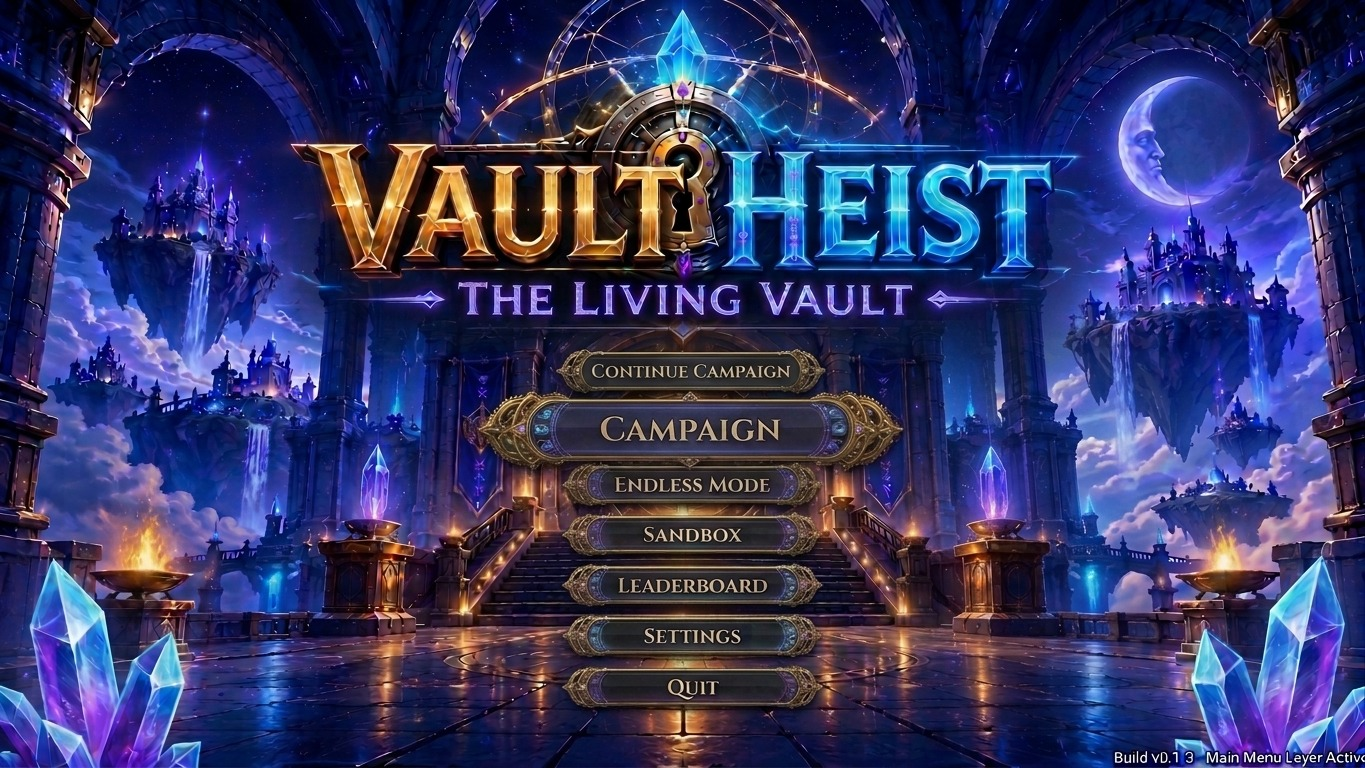
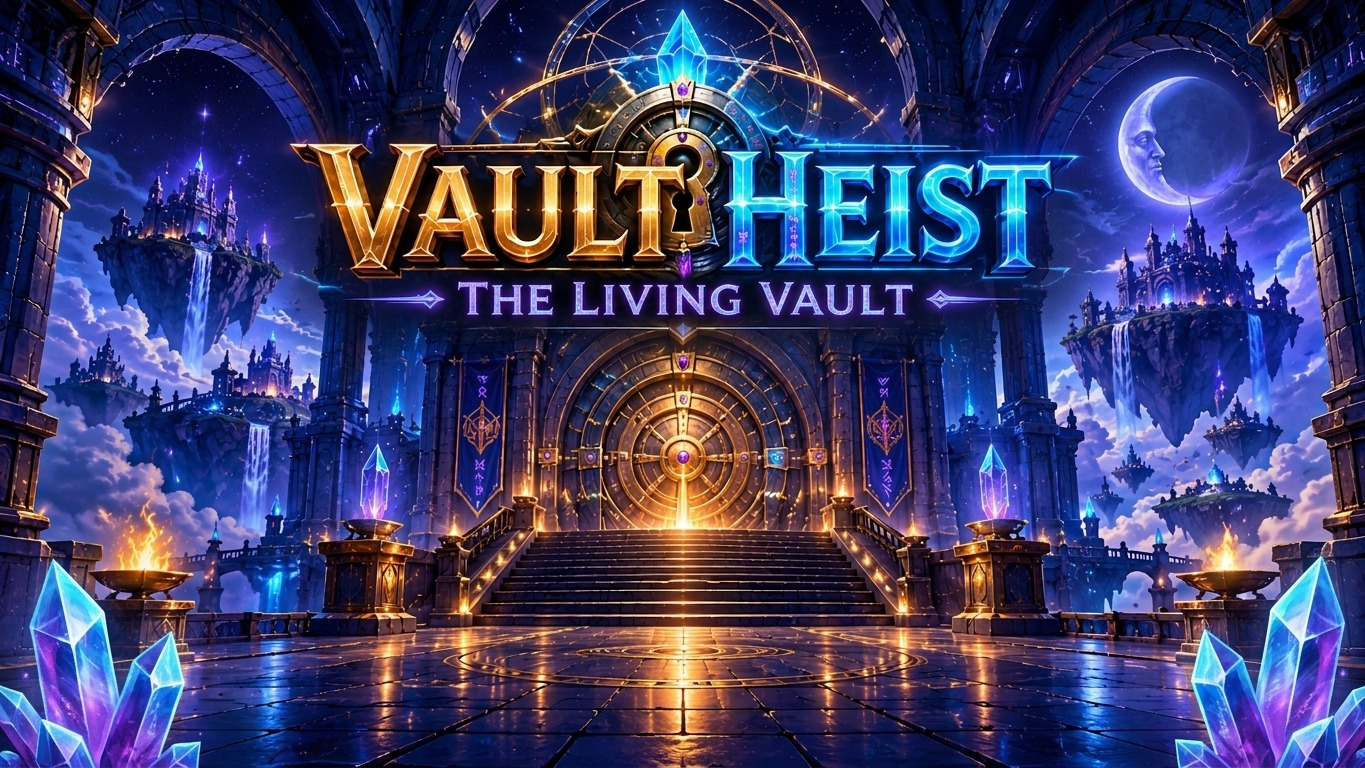
Implemented menu and campaign screens and added act screens

diff --git a/VaultHeist/src/game/Campaign.cpp b/VaultHeist/src/game/Campaign.cpp
@@ -1,0 +1,230 @@
+#include "../../include/game/Campaign.h"
+#include <SFML/Graphics.hpp>
+
+using namespace sf;
+
+void Campaign::CampaignScreen()
+{
+	RenderWindow window(VideoMode({ 1365, 765 }), "Campaign Screen");
+
+	Texture background;
+	if (!background.loadFromFile("VaultHeist/assets/background/campaign_screen.jpeg"))
+		return;
+
+	Sprite b(background);
+
+	Texture lock;
+	if (!lock.loadFromFile("VaultHeist/assets/background/campaign_lock.png"))
+		return;
+
+	Sprite l[3] = { Sprite(lock), Sprite(lock), Sprite(lock) };
+	for (int i = 0; i < 3; i++)
+		l[i].setScale(Vector2f(0.2, 0.2));
+	l[0].setPosition(Vector2f(980, 280));
+	l[1].setPosition(Vector2f(180, 280));
+	l[2].setPosition(Vector2f(620, 440));
+
+	Texture name;
+	if (!name.loadFromFile("VaultHeist/assets/background/act_names.png"))
+		return;
+
+	Sprite acts[4] = { Sprite(name), Sprite(name)  ,Sprite(name) , Sprite(name) };
+	for (int i = 0; i < 4; i++)
+	{
+		acts[i].setTextureRect(IntRect({ 50, 90 + (i * 200) }, { 1100, 80 }));
+		acts[i].setScale(Vector2f(0.4, 0.4));
+	}
+	acts[0].setPosition(Vector2f(380, 50));
+	acts[1].setPosition(Vector2f(880, 220));
+	acts[2].setPosition(Vector2f(30, 250));
+	acts[3].setPosition(Vector2f(520, 650));
+
+	bool open[4] = { true, false, false, false };
+	bool once[4] = { false, false, false, false };
+
+	RectangleShape bound[4];
+	for (int i = 0; i < 4; i++)
+	{
+		bound[i].setSize(Vector2f(400, 200));
+		bound[i].setFillColor(Color::Transparent);
+	}
+	bound[0].setPosition(Vector2f(400, 50));
+	bound[1].setPosition(Vector2f(880, 220));
+	bound[2].setPosition(Vector2f(70, 270));
+	bound[3].setPosition(Vector2f(520, 450));
+
+	while (window.isOpen())
+	{
+		Vector2i mousepos = Mouse::getPosition(window);
+
+		while (const auto event = window.pollEvent())
+		{
+			if (event->is<Event::Closed>())
+				window.close();
+
+			if (const auto* mouse = event->getIf<Event::MouseButtonPressed>())
+			{
+				if (mouse->button == Mouse::Button::Left)
+				{
+					for (int i = 0; i < 4; i++)
+						if (bound[i].getGlobalBounds().contains(
+							window.mapPixelToCoords(mousepos)) && open[i])
+							switch (i)
+							{
+							case 0: window.close(); Act1(); break; //act 1
+							case 1: window.close(); Act2(); break; //act 2
+							case 2: window.close(); Act3(); break; //act 3
+							case 3: window.close(); Act4(); break; //act 4
+							}
+				}
+			}
+		}
+
+		for (int i = 0; i < 4; i++)
+		{
+			Vector2f x = acts[i].getPosition();
+			if (bound[i].getGlobalBounds().contains(
+				window.mapPixelToCoords(mousepos)) && open[i])
+			{
+				acts[i].setScale(Vector2f(0.5, 0.5));
+				if (!once[i])
+				{
+					acts[i].setPosition(Vector2f(x.x - 50, x.y));
+					once[i] = true;
+				}
+			}
+			else
+			{
+				acts[i].setScale(Vector2f(0.4, 0.4));
+				if (once[i])
+				{
+					acts[i].setPosition(Vector2f(x.x + 50, x.y));
+					once[i] = false;
+				}
+			}
+
+		}
+
+		window.clear(Color::Black);
+
+		window.draw(b);
+		for (int i = 0; i < 3; i++)
+			if (!open[i+1])
+				window.draw(l[i]);
+		for (int i = 0; i < 4; i++)
+			window.draw(acts[i]);
+		for (int i = 0; i < 4; i++)
+			window.draw(bound[i]);
+
+		window.display();
+	}
+}
+
+
+void Campaign::Act1()
+{
+	RenderWindow window(VideoMode({ 1365, 765 }), "Act 1");
+
+	Texture background;
+	if (!background.loadFromFile("VaultHeist/assets/background/act1.jpeg"))
+		return;
+
+	Sprite b(background);
+	b.setScale(Vector2f(1.34, 1.34));
+
+	while (window.isOpen())
+	{
+		while (const auto event = window.pollEvent())
+		{
+			if (event->is<Event::Closed>())
+				window.close();
+		}
+
+		window.clear(Color::Black);
+
+		window.draw(b);
+
+		window.display();
+	}
+}
+
+void Campaign::Act2()
+{
+	RenderWindow window(VideoMode({ 1365, 765 }), "Act 2");
+
+	Texture background;
+	if (!background.loadFromFile("VaultHeist/assets/background/act2.jpeg"))
+		return;
+
+	Sprite b(background);
+	b.setScale(Vector2f(1.34, 1.34));
+
+	while (window.isOpen())
+	{
+		while (const auto event = window.pollEvent())
+		{
+			if (event->is<Event::Closed>())
+				window.close();
+		}
+
+		window.clear(Color::Black);
+
+		window.draw(b);
+
+		window.display();
+	}
+}
+
+void Campaign::Act3()
+{
+	RenderWindow window(VideoMode({ 1365, 765 }), "Act 3");
+
+	Texture background;
+	if (!background.loadFromFile("VaultHeist/assets/background/act3.jpeg"))
+		return;
+
+	Sprite b(background);
+	b.setScale(Vector2f(1.34, 1.34));
+
+	while (window.isOpen())
+	{
+		while (const auto event = window.pollEvent())
+		{
+			if (event->is<Event::Closed>())
+				window.close();
+		}
+
+		window.clear(Color::Black);
+
+		window.draw(b);
+
+		window.display();
+	}
+}
+
+void Campaign::Act4()
+{
+	RenderWindow window(VideoMode({ 1365, 765 }), "Act 4");
+
+	Texture background;
+	if (!background.loadFromFile("VaultHeist/assets/background/act4.jpeg"))
+		return;
+
+	Sprite b(background);
+	b.setScale(Vector2f(1.34, 1.34));
+
+	while (window.isOpen())
+	{
+		while (const auto event = window.pollEvent())
+		{
+			if (event->is<Event::Closed>())
+				window.close();
+		}
+
+		window.clear(Color::Black);
+
+		window.draw(b);
+
+		window.display();
+	}
+}

diff --git a/VaultHeist/src/game/MainMenu.cpp b/VaultHeist/src/game/MainMenu.cpp
@@ -1,4 +1,5 @@
 #include "../../include/game/MainMenu.h"
+#include "../../include/game/Campaign.h"
 
 #include <SFML/Graphics.hpp>
 #include <iostream>
@@ -47,17 +48,68 @@ void MainMenu::MainScreen()
 		return;
 	Sprite b(background);
 
+	Texture options;
+	if (!options.loadFromFile("VaultHeist/assets/background/main_options.png"))
+		return;
+
+	Sprite op[6] = { Sprite(options), Sprite(options),Sprite(options) ,Sprite(options) ,Sprite(options) ,Sprite(options) };
+	for (int i = 0; i < 6; i++)
+	{
+		op[i].setTextureRect(IntRect({ 180, 180 + (i * 140) }, { 680, 120 }));
+		op[i].setScale(Vector2f(0.5, 0.5));
+		op[i].setPosition(Vector2f(510, 350 + (i * 70)));
+	}
+
 	while (window.isOpen())
 	{
+		Vector2i mousepos = Mouse::getPosition(window);
+
 		while (const auto event = window.pollEvent())
 		{
 			if (event->is<Event::Closed>())
 				window.close();
+	
+			if (const auto* mouse = event->getIf<Event::MouseButtonPressed>())
+			{
+				if (mouse->button == Mouse::Button::Left)
+				{
+					for (int i = 0; i < 6; i++)
+						if (op[i].getGlobalBounds().contains(
+							window.mapPixelToCoords(mousepos)))
+							switch (i)
+							{
+							case 0: window.close(); Campaign c; c.CampaignScreen(); break; //campaign
+							case 1: break; //endless
+							case 2: break; //sandbox
+							case 3: break; //leaderBoard
+							case 4: break; //settings
+							case 5: window.close(); break;
+							}
+				}
+			}
+		}
+
+		for (int i = 0; i < 6; i++)
+		{
+			if (op[i].getGlobalBounds().contains(
+				window.mapPixelToCoords(mousepos)))
+			{
+				op[i].setScale(Vector2f(0.6, 0.6));
+				op[i].setPosition(Vector2f(475, 350 + (i * 70)));
+			}
+			else
+			{
+				op[i].setScale(Vector2f(0.5, 0.5));
+				op[i].setPosition(Vector2f(510, 350 + (i * 70)));
+			}
+
 		}
 
 		window.clear(Color::Black);
 
 		window.draw(b);
+		for (int i = 0; i < 6; i++)
+			window.draw(op[i]);
 
 		window.display();
 	}

diff --git a/VaultHeist/include/game/Campaign.h b/VaultHeist/include/game/Campaign.h
@@ -1,0 +1,8 @@
+class Campaign {
+public:
+	void CampaignScreen();
+	void Act1();
+	void Act2();
+	void Act3();
+	void Act4();
+};
